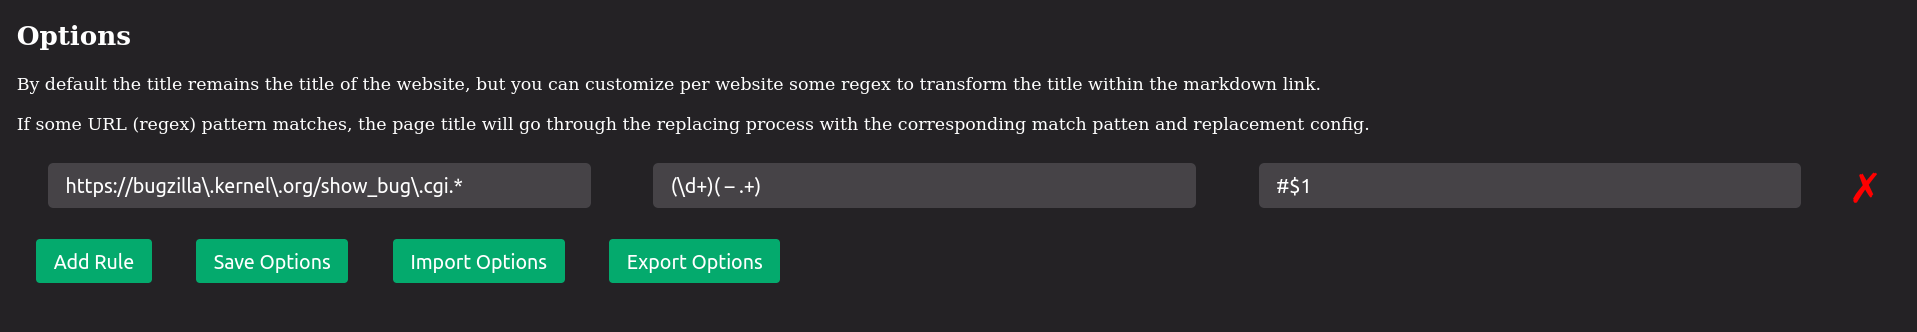
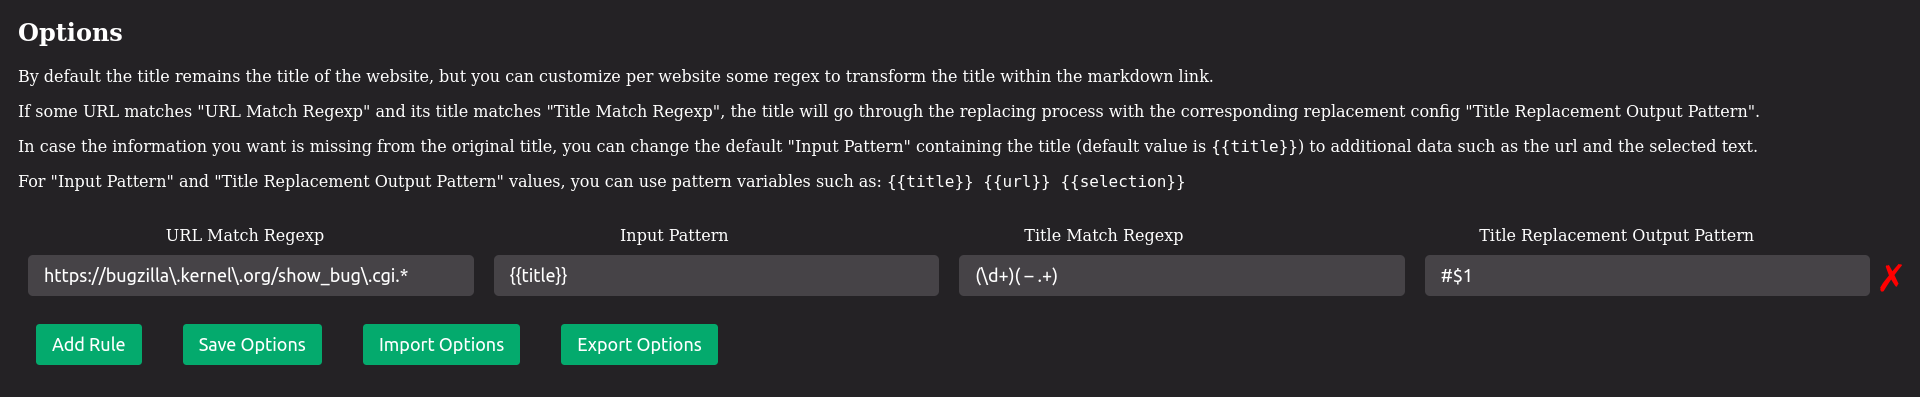
feat(caml): ability to add data from url (that is not in the title) ref: #2

diff --git a/caml/options.html b/caml/options.html
@@ -14,8 +14,26 @@
             By default the title remains the title of the website, but you can customize per website some regex to transform the title within the markdown link.
         </p>
         <p>
-            If some URL (regex) pattern matches, the page title will go through the replacing process with the corresponding match patten and replacement config.
+            If some URL matches "URL Match Regexp" and its title matches "Title Match Regexp", the title will go through the replacing process with the corresponding replacement config "Title Replacement Output Pattern".
         </p>
+        <p>
+            In case the information you want is missing from the original title, you can change the default "Input Pattern" containing the title (default value is <code>{{title}}</code>) to additional data such as the url and the selected text.
+        </p>
+        <p>
+            For "Input Pattern" and "Title Replacement Output Pattern" values, you  can use pattern variables such as:
+            <code>
+                {{title}}
+                {{url}}
+                {{selection}}
+            </code>
+        </p><br />
+
+        <div class="rule-header">
+            <span>URL Match Regexp</span>
+            <span>Input Pattern</span>
+            <span>Title Match Regexp</span>
+            <span>Title Replacement Output Pattern</span>
+        </div>
 
         <div id="rules-container">
             <!-- Rules will be dynamically added here -->
@@ -35,9 +53,10 @@
     </div>
     <template id="rule-template">
         <div class="rule-row">
-            <input placeholder="URL Match Pattern" class="url" />
-            <input placeholder="Title Match Pattern" class="search" />
-            <input placeholder="Title Replacement" class="replace" />
+            <input placeholder="URL Match Regexp" class="url" />
+            <input placeholder="Input Pattern" class="pattern" />
+            <input placeholder="Title Match Regexp" class="search" />
+            <input placeholder="Title Replacement Output Pattern" class="replace" />
             <span class="remove-rule-button" title="Remove Rule">✗</span>
         </div>
     </template>

diff --git a/caml/background.js b/caml/background.js
@@ -108,6 +108,12 @@ async function getSelectedTextAsync() {
     }
 }
 
+function replacePatterns(text, data) {
+    text = text.replace(/{{title}}/g, `${data.title}`);
+    text = text.replace(/{{url}}/g, `${data.url}`);
+    return text.replace(/{{selection}}/g, data?.selection !== null ? `${data.selection}` : "");
+}
+
 function createLink(typeLink = "markdown") {
     browser.tabs.query({ active: true, currentWindow: true }).then(tabs => {
         const tab = tabs[0];
@@ -118,6 +124,11 @@ function createLink(typeLink = "markdown") {
         getSelectedTextAsync().then(result => {
             let title = tab.title;
             const url = new URL(tab.url);
+            let data = {
+                title: title,
+                url: url.toString(),
+                selection: result,
+            };
             if (result) {
                 url.hash = `:~:text=${window.encodeURIComponent(result)}`;
             }
@@ -132,10 +143,13 @@ function createLink(typeLink = "markdown") {
                     regexSearch = new RegExp(rule.search);
                     if (!regexSearch.test(title)) continue;
 
+                    title = replacePatterns(rule.pattern, data);
+
                     title = title.replace(regexSearch, rule.replace);
                     break;
                 }
 
+                title = replacePatterns(title, data);
                 let formattedLink = `[${title}](${url.toString()})`;
                 if (typeLink === "jira") {
                     formattedLink = `[${title}|${url.toString()}]`;

diff --git a/caml/options.js b/caml/options.js
@@ -36,9 +36,10 @@ function addRule() {
     reindexRules(); // Update indices after adding
 }
 
-function createRuleElement(ruleData = { url: "", search: "", replace: "" }) {
+function createRuleElement(ruleData = { pattern: "{{title}}", url: "", search: "", replace: "" }) {
     const ruleNode = ruleTemplate.content.cloneNode(true);
     const ruleDiv = ruleNode.querySelector(".rule-row");
+    ruleNode.querySelector(".pattern").value = ruleData.pattern;
     ruleNode.querySelector(".url").value = ruleData.url;
     ruleNode.querySelector(".search").value = ruleData.search;
     ruleNode.querySelector(".replace").value = ruleData.replace;
@@ -71,11 +72,12 @@ function saveOptions() {
     const ruleDivs = document.querySelectorAll(".rule-row");
 
     ruleDivs.forEach(ruleDiv => {
+        const pattern = ruleDiv.querySelector(".pattern").value;
         const url = ruleDiv.querySelector(".url").value;
         const search = ruleDiv.querySelector(".search").value;
         const replace = ruleDiv.querySelector(".replace").value;
 
-        rules.push({ url: url, search: search, replace: replace });
+        rules.push({ pattern: pattern, url: url, search: search, replace: replace });
     });
 
     browser.storage.sync.set({

diff --git a/caml/options.css b/caml/options.css
@@ -23,6 +23,7 @@ button {
     margin: 18px;
 }
 
+.pattern,
 .url,
 .search,
 .replace {
@@ -37,6 +38,7 @@ button {
     margin: 10px;
 }
 
+.rule-header,
 .rule-row {
     display: flex;
     align-items: center;

diff --git a/caml/README.md b/caml/README.md
@@ -43,14 +43,23 @@ Which outputs: [#220522](https://bugzilla.kernel.org/show_bug.cgi?id=220522).
 
 To do that, open the extension preferences page and add the following rule:
 
-- URL Match Pattern: `https://bugzilla\.kernel\.org/show_bug\.cgi.*`
-- Title Match Pattern: `(\d+)( – .+)`
-- Title Replacement: `#$1`
+- URL Match Regexp: `https://bugzilla\.kernel\.org/show_bug\.cgi.*`
+- Input Pattern: `{{title}}` (default value)
+- Title Match Regexp: `(\d+)( – .+)`
+- Title Replacement Output Pattern: `#$1`
 
 ![Options page](screenshots/options.png)
 
 Do not forget to click "Save Options" button and go back to the <https://bugzilla.kernel.org/show_bug.cgi?id=220522> page.
 Trigger the extension action.
+
+If you need additional informations that are not part of the original title but are part of the original url or selected text, you can customize the "Input Pattern" rule option.
+
+"Input Pattern" and "Title Replacement Output Pattern" fields support the following variables:
+
+- `{{title}}`: original title
+- `{{url}}`: url without anchor
+- `{{selection}}`: selected text or empty string if nothing selected
 
 ### Secondary Actions
 
